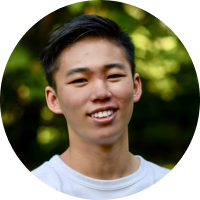
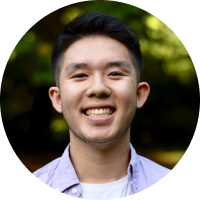
update pics

diff --git a/conduct.html b/conduct.html
@@ -250,20 +250,15 @@
         <div class="team-member-pic" onclick="window.open('https\://www.linkedin.com/in/chloe-wen/', '_blank');"></div>
         <div class="team-member-pic" onclick="window.open('https\://www.linkedin.com/in/adam-towers/', '_blank');">
         </div>
-        <div class="team-member-pic" onclick="window.open('https\://www.linkedin.com/in/bradford-chen/', '_blank');">
-        </div>
         <div class="team-member-pic" onclick="window.open('https\://www.linkedin.com/in/marymwojnar/', '_blank');">
         </div>
-        <div class="team-member-pic" onclick="window.open('https\://www.linkedin.com/in/ian-yu-85aa6b10b/', '_blank');">
-        </div>
-        <div class="team-member-pic" onclick="window.open('https\://www.linkedin.com/in/ariellchan/', '_blank');"></div>
-        <div class="team-member-pic"
-          onclick="window.open('https\://www.linkedin.com/in/allessandraquevedo/', '_blank');"></div>
         <div class="team-member-pic" onclick="window.open('https\://www.linkedin.com/in/liangn/', '_blank');"></div>
         <div class="team-member-pic" onclick="window.open('https\://www.linkedin.com/in/jamesmchen/', '_blank');"></div>
         <div class="team-member-pic" onclick="window.open('https\://www.linkedin.com/in/taylor-ka/', '_blank');"></div>
         <div class="team-member-pic"
           onclick="window.open('https\://www.linkedin.com/in/justin-b-246731122/', '_blank');"></div>
+        <div class="team-member-pic"
+          onclick="window.open('https\://www.linkedin.com/in/daniel-kim-7bbb3015b/', '_blank');"></div>
       </div>
     </section>
   </footer>

diff --git a/css/conduct.css b/css/conduct.css
@@ -368,10 +368,7 @@ footer {
       footer .team-group .team-container .team-member-pic:nth-child(9) {
         background-image: url("../assets/team/9.png"); }
       footer .team-group .team-container .team-member-pic:nth-child(10) {
-        background-image: url("../assets/team/10.jpg");
-        background-position-y: -1rem;
-        background-position-x: -0.5rem;
-        background-size: 3rem; }
+        background-image: url("../assets/team/10.png"); }
       footer .team-group .team-container .team-member-pic:nth-child(11) {
         background-image: url("../assets/team/11.png"); }
       footer .team-group .team-container .team-member-pic:nth-child(12) {
@@ -701,10 +698,7 @@ footer {
       footer .team-group .team-container .team-member-pic:nth-child(9) {
         background-image: url("../assets/team/9.png"); }
       footer .team-group .team-container .team-member-pic:nth-child(10) {
-        background-image: url("../assets/team/10.jpg");
-        background-position-y: -1rem;
-        background-position-x: -0.5rem;
-        background-size: 3rem; }
+        background-image: url("../assets/team/10.png"); }
       footer .team-group .team-container .team-member-pic:nth-child(11) {
         background-image: url("../assets/team/11.png"); }
       footer .team-group .team-container .team-member-pic:nth-child(12) {

diff --git a/faq.html b/faq.html
@@ -312,23 +312,7 @@
           ></div>
           <div
             class="team-member-pic"
-            onclick="window.open('https\://www.linkedin.com/in/bradford-chen/', '_blank');"
-          ></div>
-          <div
-            class="team-member-pic"
             onclick="window.open('https\://www.linkedin.com/in/marymwojnar/', '_blank');"
-          ></div>
-          <div
-            class="team-member-pic"
-            onclick="window.open('https\://www.linkedin.com/in/ian-yu-85aa6b10b/', '_blank');"
-          ></div>
-          <div
-            class="team-member-pic"
-            onclick="window.open('https\://www.linkedin.com/in/ariellchan/', '_blank');"
-          ></div>
-          <div
-            class="team-member-pic"
-            onclick="window.open('https\://www.linkedin.com/in/allessandraquevedo/', '_blank');"
           ></div>
           <div
             class="team-member-pic"
@@ -345,6 +329,10 @@
           <div
             class="team-member-pic"
             onclick="window.open('https\://www.linkedin.com/in/justin-b-246731122/', '_blank');"
+          ></div>
+          <div
+            class="team-member-pic"
+            onclick="window.open('https\://www.linkedin.com/in/daniel-kim-7bbb3015b/', '_blank');"
           ></div>
         </div>
       </section>

diff --git a/index.html b/index.html
@@ -626,8 +626,6 @@
         <div class="team-member-pic" onclick="window.open('https\://www.linkedin.com/in/chloe-wen/', '_blank');"></div>
         <div class="team-member-pic" onclick="window.open('https\://www.linkedin.com/in/adam-towers/', '_blank');">
         </div>
-        <div class="team-member-pic" onclick="window.open('https\://www.linkedin.com/in/bradford-chen/', '_blank');">
-        </div>
         <div class="team-member-pic" onclick="window.open('https\://www.linkedin.com/in/marymwojnar/', '_blank');">
         </div>
         <div class="team-member-pic" onclick="window.open('https\://www.linkedin.com/in/liangn/', '_blank');"></div>
@@ -635,6 +633,8 @@
         <div class="team-member-pic" onclick="window.open('https\://www.linkedin.com/in/taylor-ka/', '_blank');"></div>
         <div class="team-member-pic"
           onclick="window.open('https\://www.linkedin.com/in/justin-b-246731122/', '_blank');"></div>
+        <div class="team-member-pic"
+          onclick="window.open('https\://www.linkedin.com/in/daniel-kim-7bbb3015b/', '_blank');"></div>
       </div>
     </section>
   </footer>

diff --git a/css/faq.css b/css/faq.css
@@ -286,10 +286,7 @@ footer {
       footer .team-group .team-container .team-member-pic:nth-child(9) {
         background-image: url("../assets/team/9.png"); }
       footer .team-group .team-container .team-member-pic:nth-child(10) {
-        background-image: url("../assets/team/10.jpg");
-        background-position-y: -1rem;
-        background-position-x: -0.5rem;
-        background-size: 3rem; }
+        background-image: url("../assets/team/10.png"); }
       footer .team-group .team-container .team-member-pic:nth-child(11) {
         background-image: url("../assets/team/11.png"); }
       footer .team-group .team-container .team-member-pic:nth-child(12) {

diff --git a/css/main.css b/css/main.css
@@ -961,10 +961,7 @@ footer {
       footer .team-group .team-container .team-member-pic:nth-child(9) {
         background-image: url("../assets/team/9.png"); }
       footer .team-group .team-container .team-member-pic:nth-child(10) {
-        background-image: url("../assets/team/10.jpg");
-        background-position-y: -1rem;
-        background-position-x: -0.5rem;
-        background-size: 3rem; }
+        background-image: url("../assets/team/10.png"); }
       footer .team-group .team-container .team-member-pic:nth-child(11) {
         background-image: url("../assets/team/11.png"); }
       footer .team-group .team-container .team-member-pic:nth-child(12) {

diff --git a/sass/_footer.scss b/sass/_footer.scss
@@ -3,14 +3,7 @@
 @mixin teamImage() {
   @for $i from 1 through 13 {
     &:nth-child(#{$i}) {
-      @if $i==10 {
-        background-image: url("../assets/team/"+$i+".jpg");
-        background-position-y: -1rem;
-        background-position-x: -0.5rem;
-        background-size: 3rem;
-      } @else {
-        background-image: url("../assets/team/"+$i+".png");
-      }
+      background-image: url("../assets/team/"+$i+".png");
     }
   }
 }
